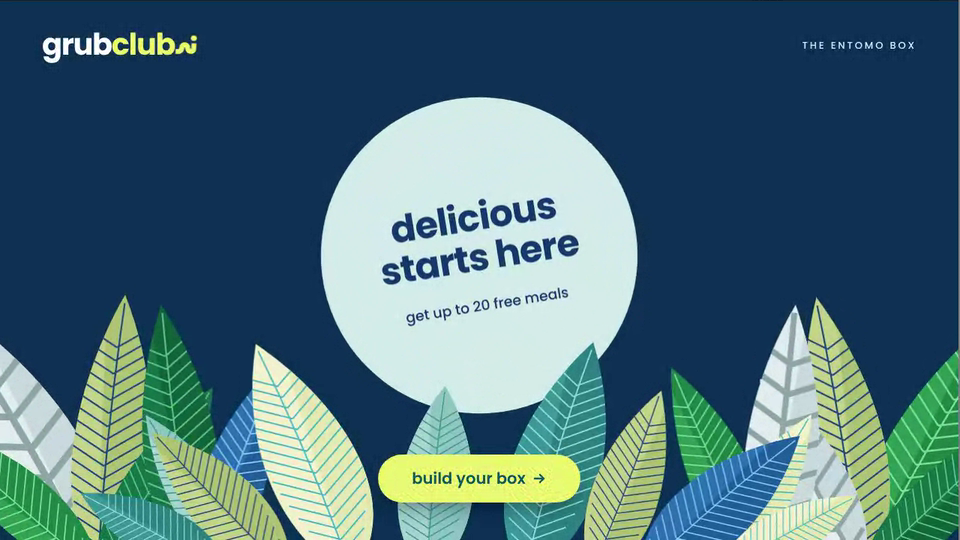
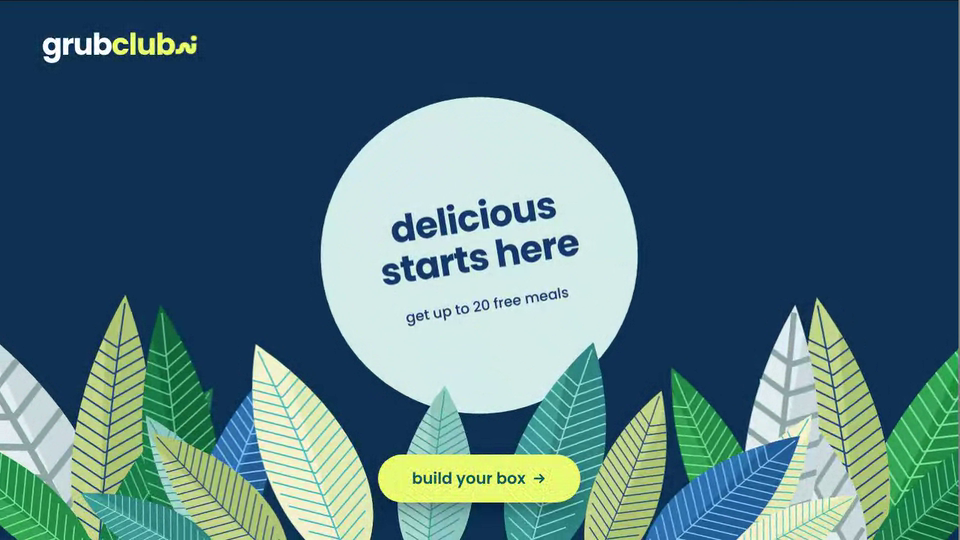
Grubclub Order: flat pouch/tub illustrations on the meal cards, drop hero tag
Claude-Session: https://claude.ai/code/session_01AHeBdxhV8CCLctwk6eqLXm

diff --git a/grubclub-order/index.html b/grubclub-order/index.html
@@ -40,9 +40,8 @@ main{flex:1;min-height:0;position:relative;overflow:hidden;background:#07213a}
 #s0 svg.bg{position:absolute;inset:0;width:100%;height:100%}
 #hLogo{left:56px;top:38px;font-size:40px;color:#fff}
 #hLogo i{color:var(--kiwi)}
-#hTag{right:56px;top:50px;font-size:13px;font-weight:500;letter-spacing:.22em;color:var(--egg)}
-#hLogo,#hTag,#cta{opacity:0;transform:translateY(14px);transition:opacity calc(.7s*var(--k)),transform calc(.7s*var(--k)) cubic-bezier(.2,.8,.2,1)}
-#hLogo.in,#hTag.in,#cta.in{opacity:1;transform:none}
+#hLogo,#cta{opacity:0;transform:translateY(14px);transition:opacity calc(.7s*var(--k)),transform calc(.7s*var(--k)) cubic-bezier(.2,.8,.2,1)}
+#hLogo.in,#cta.in{opacity:1;transform:none}
 #cta{left:50%;bottom:50px;margin-left:-135px;width:270px;height:64px;border-radius:999px;background:var(--kiwi);color:var(--bean);font:600 21px/64px Poppins,sans-serif;text-align:center;box-shadow:0 14px 30px -10px rgba(0,0,0,.45);cursor:pointer;border:0;transition:opacity calc(.7s*var(--k)),transform calc(.7s*var(--k)) cubic-bezier(.2,.8,.2,1),background .2s}
 #cta.in.press{transform:scale(.96)}
 #cta svg{width:20px;height:20px;vertical-align:-3px;margin-left:8px}
@@ -56,11 +55,11 @@ main{flex:1;min-height:0;position:relative;overflow:hidden;background:#07213a}
 #pHead{left:56px;top:92px}
 #pHead h1{margin:0;font-size:42px;line-height:1.1;font-weight:700;letter-spacing:-.01em}
 #pHead p{margin:8px 0 0;font-size:17px;color:#3d6f74}
-#grid{left:56px;top:222px;width:744px;display:grid;grid-template-columns:repeat(3,1fr);gap:20px}
-.card{background:#fff;border-radius:22px;padding:14px;height:220px;box-shadow:0 10px 24px -14px rgba(14,50,81,.35);opacity:0;transform:translateY(26px);transition:opacity calc(.5s*var(--k)),transform calc(.6s*var(--k)) cubic-bezier(.2,.8,.2,1),box-shadow .3s,outline-color .3s;outline:3px solid transparent;outline-offset:-1px}
+#grid{left:56px;top:206px;width:744px;display:grid;grid-template-columns:repeat(3,1fr);gap:20px}
+.card{background:#fff;border-radius:22px;padding:14px;height:232px;box-shadow:0 10px 24px -14px rgba(14,50,81,.35);opacity:0;transform:translateY(26px);transition:opacity calc(.5s*var(--k)),transform calc(.6s*var(--k)) cubic-bezier(.2,.8,.2,1),box-shadow .3s,outline-color .3s;outline:3px solid transparent;outline-offset:-1px}
 #s1.in .card{opacity:1;transform:none;transition-delay:calc(var(--i)*70ms*var(--k))}
 #s1.in .card.sel{transition-delay:0s;transform:translateY(-4px);outline-color:var(--matcha)}
-.card .il{height:104px;border-radius:14px;overflow:hidden;background:var(--navy)}
+.card .il{height:120px;border-radius:14px;overflow:hidden;background:var(--navy)}
 .card h4{margin:10px 0 0;height:39px;font-size:15px;line-height:1.3;font-weight:600;letter-spacing:-.005em}
 .card .rw{display:flex;justify-content:space-between;align-items:center;margin-top:7px}
 .card .rw small{font-size:12px;color:#4d8184;font-weight:500}
@@ -149,7 +148,6 @@ main{flex:1;min-height:0;position:relative;overflow:hidden;background:#07213a}
         <text class="hl" y="74" font-size="19" font-weight="500" letter-spacing="0">get up to 20 free meals</text></g></g>
     <g id="hFront"></g></svg>
   <div class="abs logo" id="hLogo">grub<i>club</i><span class="wm" style="color:var(--kiwi)"></span></div>
-  <div class="abs" id="hTag">THE ENTOMO BOX</div>
   <div class="abs" id="cta" role="button">build your box<svg viewBox="0 0 20 20" fill="none" stroke="currentColor" stroke-width="2.4" stroke-linecap="round" stroke-linejoin="round"><path d="M4 10h12M11 5l5 5-5 5"/></svg></div>
 </section>
 
@@ -243,8 +241,31 @@ const MEALS=[
  {n:'matcha cricket protein bar',s:'matcha protein bar',g:'40g',c:'#D7F5FA'}];
 const PICKS=[0,1,4,5];
 
-function mini(m,i){const j=(i%3-1)*6;
-  return `<svg viewBox="0 0 210 104" width="100%" height="100%" preserveAspectRatio="xMidYMid slice">${LF([[24,114,28+j,84,18,8,2],[46,114,54-j,60,15,-6,0],[188,114,-30-j,86,19,-8,1],[166,114,-56+j,62,15,6,3],[110,112,-2,0.1,0.1,0,0]].slice(0,4))}<circle class="cc" cx="105" cy="50" r="33" fill="${m.c}"/><text x="105" y="56" text-anchor="middle" font-family="Poppins,sans-serif" font-weight="700" font-size="15" fill="#14396B">${m.g}</text>${LF([[92,114,-8,40,12,4,0],[124,114,12,34,10,-4,4]])}</svg>`}
+/* flat illustrated packs for the meal cards: k = p (stand-up pouch) | t (tub with lid) */
+const PACK=[
+ {k:'p',body:'#14447C',ink:'#fff',cir:'#D6ECE8',nm:['lightly','salted'],lv:[3,5]},
+ {k:'t',body:'#8DB83C',ink:'#fff',nm:['chili lime','crisps'],lv:[6,3]},
+ {k:'p',body:'#1B7A4A',ink:'#fff',cir:'#EEF6A8',nm:['cricket','trail mix'],lv:[0,7]},
+ {k:'t',body:'#E6EDB0',ink:'#0E3251',nm:['wasabi','bites'],lv:[7,4]},
+ {k:'t',body:'#2F9A74',ink:'#fff',nm:['brownie','mix'],lv:[0,1]},
+ {k:'p',body:'#A9D8CF',ink:'#0E3251',cir:'#fff',nm:['matcha','bar'],lv:[6,4]}];
+function mini(m,i){const P=PACK[i],j=(i%3-1)*5,id='k'+(uid++),back=LF([[20,128,28+j,92,19,8,4],[46,128,52-j,66,16,-6,7],[192,128,-28-j,94,20,-8,6],[166,128,-54+j,68,16,6,2]]);
+  const tub='M77 24H133L130 80Q129 88 121 88H89Q81 88 80 80Z',pouch='M77 8H133L135 86Q105 94 75 86Z';
+  const spr=`${LF([[88,92,-14,30,9,4,P.lv[0]],[108,94,6,34,10,-4,P.lv[1]],[126,92,24,28,9,5,P.lv[0]]])}`;
+  let g;
+  if(P.k==='t'){
+    g=`<clipPath id="${id}"><path d="${tub}"/></clipPath><path d="${tub}" fill="${P.body}"/>
+    <g clip-path="url(#${id})">${spr}</g>
+    <path d="M70 24V15Q70 12 73 12H76L79 5H131L134 12H137Q140 12 140 15V24Z" fill="#165B63"/>
+    <text x="84" y="38" font-family="Poppins,sans-serif" font-weight="700" font-size="6.5" fill="${P.ink}">grubclub</text>
+    <text font-family="Poppins,sans-serif" font-weight="700" font-size="10.5" letter-spacing="-.3" fill="${P.ink}"><tspan x="84" y="52">${P.nm[0]}</tspan><tspan x="84" y="63">${P.nm[1]}</tspan></text>`}
+  else{
+    g=`<clipPath id="${id}"><path d="${pouch}"/></clipPath><path d="${pouch}" fill="${P.body}"/>
+    <g clip-path="url(#${id})">${spr}<rect x="70" y="8" width="70" height="8" fill="#000" opacity=".2"/><path d="M80 12H130" stroke="#fff" stroke-opacity=".35" stroke-width="1" stroke-dasharray="2 2"/></g>
+    <text x="105" y="29" text-anchor="middle" font-family="Poppins,sans-serif" font-weight="700" font-size="6.5" fill="${P.ink}">grubclub</text>
+    <circle cx="105" cy="55" r="21" fill="${P.cir}"/>
+    <text text-anchor="middle" font-family="Poppins,sans-serif" font-weight="700" font-size="8.5" letter-spacing="-.2" fill="#14396B"><tspan x="105" y="53">${P.nm[0]}</tspan><tspan x="105" y="63">${P.nm[1]}</tspan></text>`}
+  return `<svg viewBox="0 0 210 120" width="100%" height="100%" preserveAspectRatio="xMidYMid slice">${back}<g class="cc" transform="translate(105 61) scale(1.2) translate(-105 -48)">${g}</g></svg>`}
 
 /* ============ build static DOM ============ */
 $('#grid').innerHTML=MEALS.map((m,i)=>`<div class="card" style="--i:${i}" data-i="${i}"><div class="il">${mini(m,i)}</div><h4>${m.n}</h4><div class="rw"><small>${m.g}</small><div class="add">+ add</div></div></div>`).join('');
@@ -296,10 +317,10 @@ function showCursor(){cursor.style.opacity=1}
 /* ============ scenes ============ */
 const scenes=[
 async function hero_(g,o){
-  hero.t=o.clip?3.4:0;show(0);$$('#hLogo,#hTag,#cta').forEach(e=>e.classList.remove('in','press'));
+  hero.t=o.clip?3.4:0;show(0);$$('#hLogo,#cta').forEach(e=>e.classList.remove('in','press'));
   const tm=o.clip?0:1;
-  if(o.clip)$$('#hLogo,#hTag,#cta').forEach(e=>e.classList.add('in'));
-  else{await W(500,g);$('#hLogo').classList.add('in');await W(400,g);$('#hTag').classList.add('in');await W(1000,g);$('#cta').classList.add('in');await W(2300,g)}
+  if(o.clip)$$('#hLogo,#cta').forEach(e=>e.classList.add('in'));
+  else{await W(500,g);$('#hLogo').classList.add('in');await W(1400,g);$('#cta').classList.add('in');await W(2300,g)}
   if(o.clip)await W(700,g);
   const c=cen($('#cta'));curSet(c.x+420,c.y+200);showCursor();await W(50,g);curGo(c.x,c.y+4,900);await W(1000,g);
   $('#cta').classList.add('press');await curClick(g);await W(120,g);return{x:c.x,y:c.y}},
@@ -345,8 +366,8 @@ $('#pp').onclick=()=>{if(started===false){started=true;paused=false;play({from:c
 let started=false,cur_=0;
 $$('.ctl [data-s]').forEach(b=>b.onclick=()=>{cur_=+b.dataset.s;started=true;play({from:cur_})});
 window.gc={play,
-  park(){gen++;paused=false;K=1;document.documentElement.style.setProperty('--k',1);hero.t=3.4;show(0);$$('#hLogo,#hTag,#cta').forEach(e=>e.classList.add('in'));syncPP()}};
-document.fonts.ready.then(()=>{syncPP();if(location.search.includes('park'))gc.park();else if(reduce){hero.t=3.4;show(0);$$('#hLogo,#hTag,#cta').forEach(e=>e.classList.add('in'));paused=true;syncPP()}else{started=true;play({})}});
+  park(){gen++;paused=false;K=1;document.documentElement.style.setProperty('--k',1);hero.t=3.4;show(0);$$('#hLogo,#cta').forEach(e=>e.classList.add('in'));syncPP()}};
+document.fonts.ready.then(()=>{syncPP();if(location.search.includes('park'))gc.park();else if(reduce){hero.t=3.4;show(0);$$('#hLogo,#cta').forEach(e=>e.classList.add('in'));paused=true;syncPP()}else{started=true;play({})}});
 </script>
 </body>
 </html>
